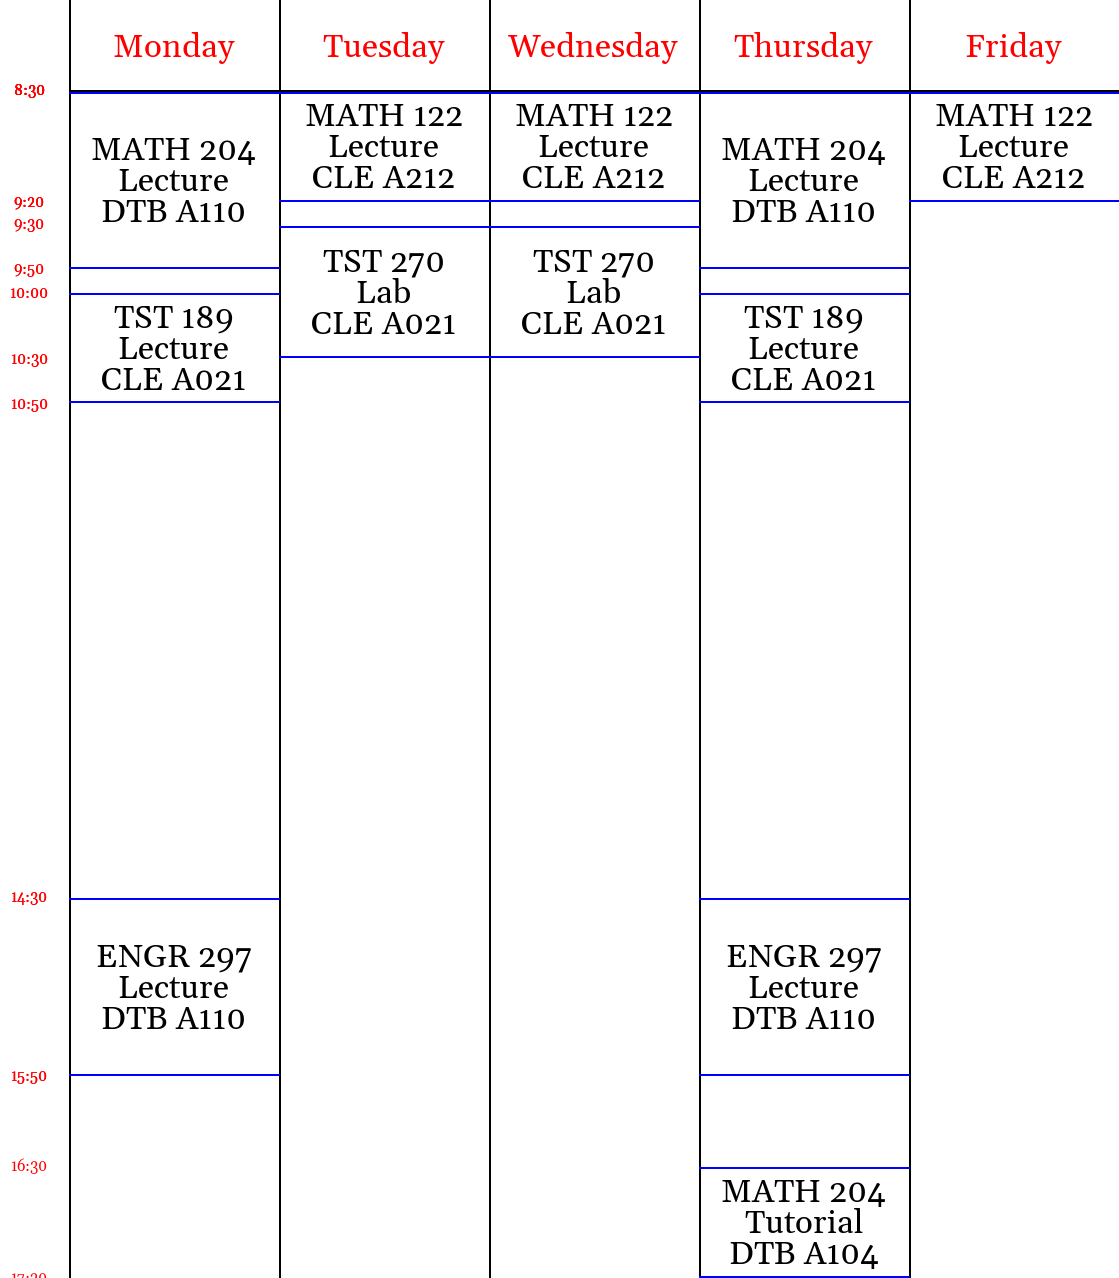
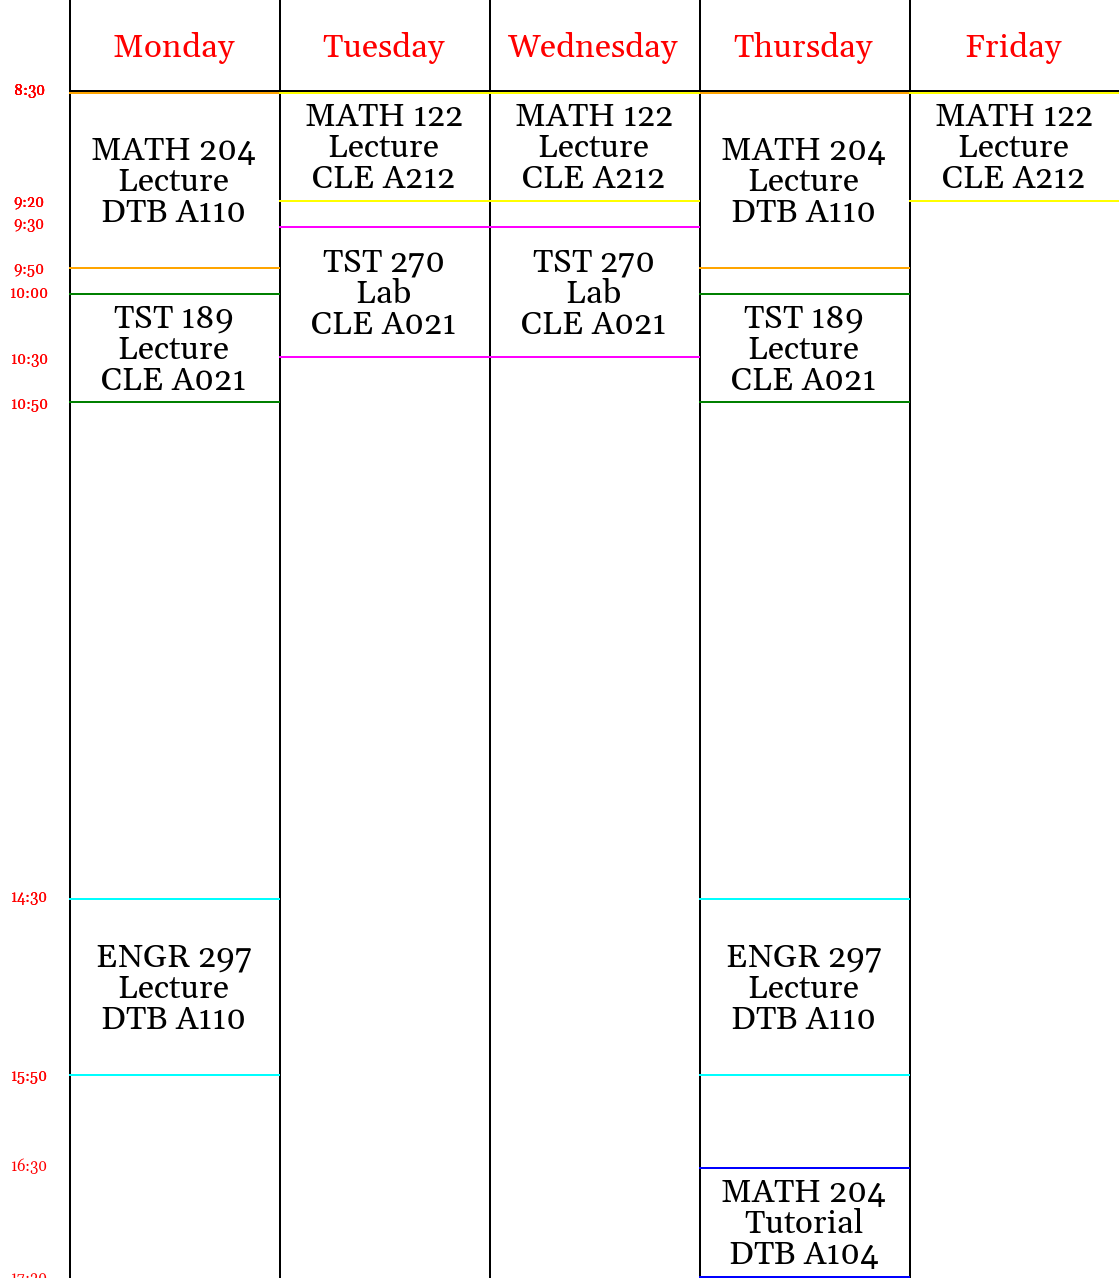
randomize event colors

Changed region(s): [[0.2735, 0.1526, 0.6077, 0.1831]]

diff --git a/scheduleGenerator.py b/scheduleGenerator.py
@@ -1,5 +1,6 @@
 import json
 from PIL import Image, ImageDraw, ImageFont
+from random import shuffle
 
 
 scale = 3
@@ -7,6 +8,7 @@ gutterWidth = 23 * scale
 columnWidth = 70 * scale
 dateCellHeight = 30 * scale
 segmentHeight = 22 * scale
+
 dayOrdering = {
     "Monday": 0,
     "Tuesday": 1,
@@ -16,6 +18,9 @@ dayOrdering = {
     "Saturday": 5,
     "Sunday": 6,
 }
+eventColors = ["red", "blue", "green", "yellow", "magenta", "cyan", "orange", "pink"]
+shuffle(eventColors)
+
 dayFont = ImageFont.truetype(font="Gelasio-Regular.ttf", size=scale * 11)
 cellFont = ImageFont.truetype(font="Gelasio-Regular.ttf", size=scale * 11)
 timeFont = ImageFont.truetype(font="Gelasio-Regular.ttf", size=scale * 5)
@@ -155,8 +160,8 @@ class Schedule(object):
                     ev._get_formatted_event(),
                     (eventX, eventY),
                     (startEventY, endEventY),
-                    (0, 0, 0),
-                    (0, 0, 255),
+                    "black",
+                    ev.color,
                 )
                 self._draw_time(str(ev.startTime), startEventY, "red")
                 self._draw_time(str(ev.endTime), endEventY, "red")
@@ -177,6 +182,8 @@ class Schedule(object):
 
 
 class Event(object):
+    colorPos = 0
+
     def __init__(self, data):
         self.course = data["course"]
         self.section = data["section"]
@@ -185,6 +192,9 @@ class Event(object):
         self.endTime = Time.from_string(data["end"])
         self.room = data["room"]
         self.days = data["days"]
+
+        self.color = eventColors[Event.colorPos]
+        Event.colorPos += 1
 
     def __str__(self):
         return f"{self.course} {self.eventType} at {self.startTime} to {self.endTime} ({self.endTime.time - self.startTime.time} minutes)."
